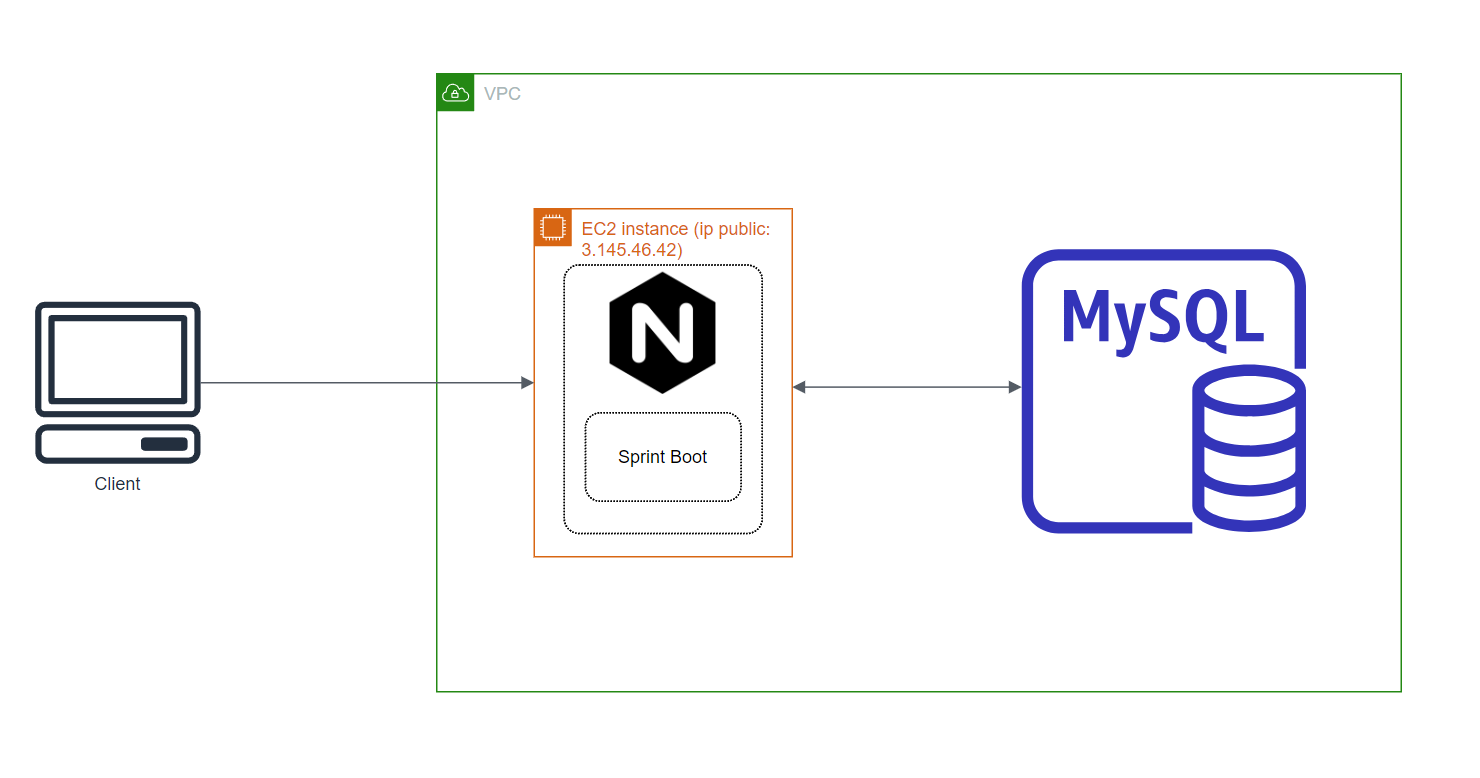
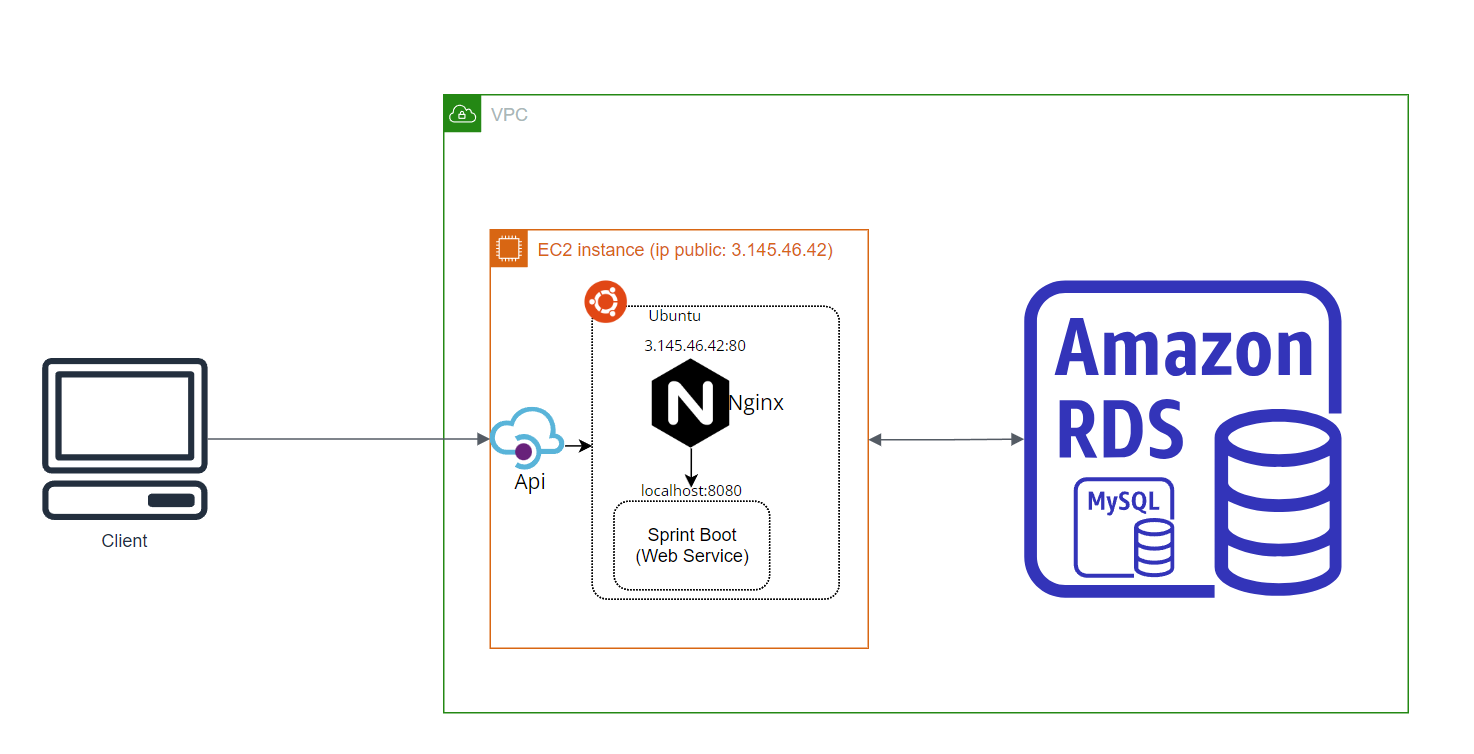
fix readme

diff --git a/README.md b/README.md
@@ -5,10 +5,10 @@
 - OpenApi
 
 ### Despliegue en desarrollo
-- Se debe instalar una Bade de datos MySql el local o por defecto di se tiene docker se puede ejecutar el siguiente comando:
+- Se debe instalar una base de datos MySql en local o por defecto si se tiene docker se puede ejecutar el siguiente comando:
   docker run -d --name mysql-container -e MYSQL_ROOT_PASSWORD=admin123 -v dataMySql:/var/lib/mysql -p 3306:3306 mysql:latest --character-set-server=utf8mb4 --collation-server=utf8mb4_unicode_ci --max-connections=1000 --log-bin=binlog --binlog-format=row --server-id=1 --default-authentication-plugin=mysql_native_password
 
-- Una ves con el proyecto en local y el aplication.properties configurado en base a la Base de datos indicada se despliega:
+- Una vez con el proyecto en local y el aplication.properties configurado en base a la Base de datos indicada se despliega:
 - mvn clean install
 - mvn spring-boot:run
 - (opcional) java -jar -Dspring.profiles.active=prod -Dserver.port=8080 /{dirección del servicio .jar}
@@ -22,6 +22,7 @@ mvn test
 ### Open Api
 
 Para ver OpenApi en local http://localhost:8080/swagger-ui/index.html
+Para ver OpenApi en producción http://3.145.46.42/swagger-ui/index.html
 
 ![Swagger.png](readme_img/Swagger.png)
 
